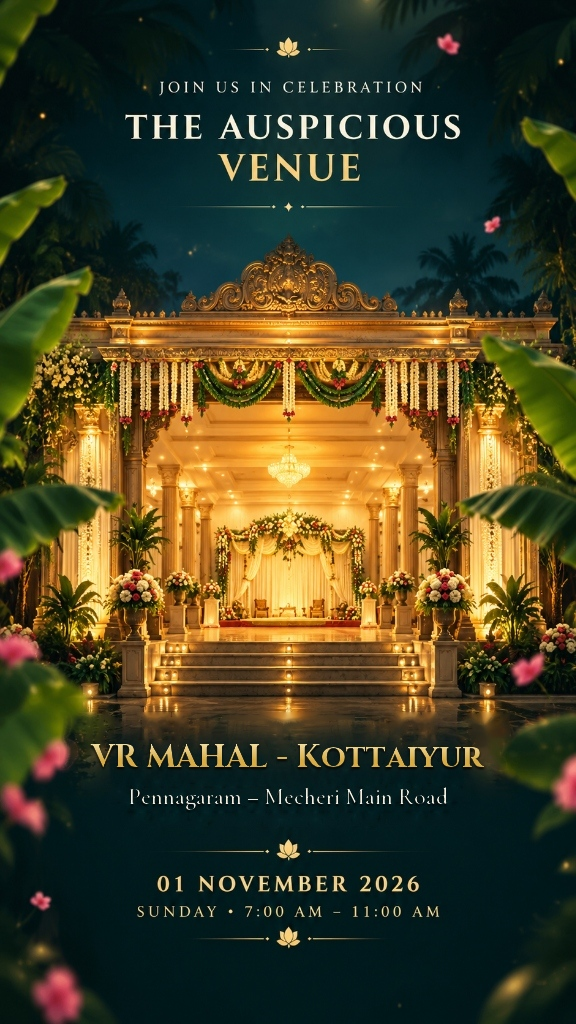
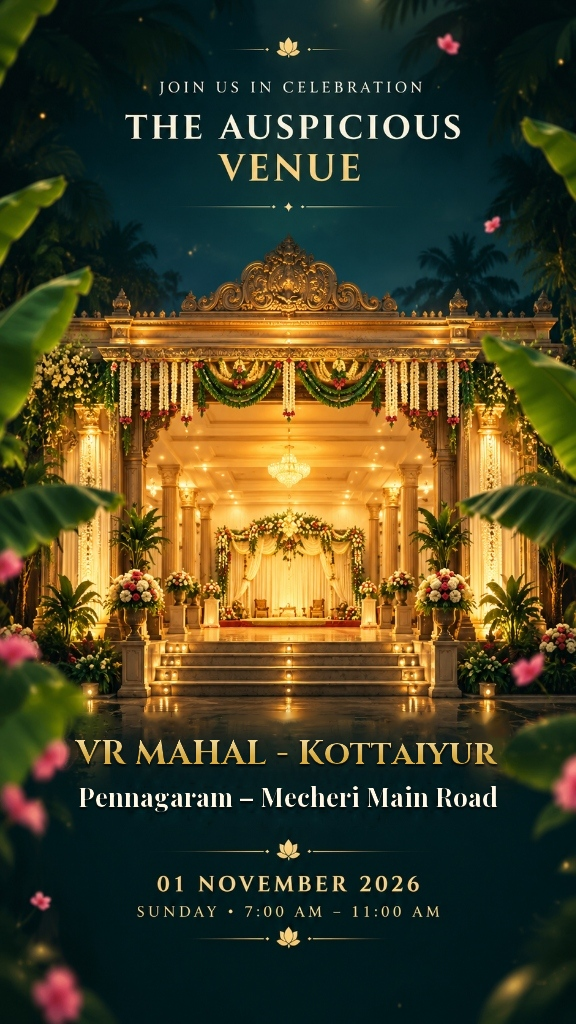
style(venue): increase card size and enlarge Pennagaram address line for high visibility

Changed region(s): [[0.125, 0.7188, 0.875, 0.8125]]

diff --git a/src/App.css b/src/App.css
@@ -3206,7 +3206,7 @@
   }
 
   .venue-poster-card {
-    max-height: clamp(440px, 62vh, 580px);
+    max-height: clamp(480px, 66vh, 620px);
     width: auto;
     max-width: none;
     aspect-ratio: 576 / 1024;
@@ -3215,7 +3215,7 @@
   .venue-poster-image {
     height: 100%;
     width: auto;
-    max-height: clamp(440px, 62vh, 580px);
+    max-height: clamp(480px, 66vh, 620px);
     object-fit: contain;
   }
 }
@@ -3230,15 +3230,15 @@
   }
 
   .venue-poster-card {
-    max-width: min(80vw, 305px);
+    max-width: min(88vw, 350px);
   }
 
   .venue-cinematic-actions {
     flex-direction: column;
     width: 100%;
-    max-width: 260px;
-    gap: 7px;
-    margin-top: 4px;
+    max-width: min(88vw, 300px);
+    gap: 8px;
+    margin-top: 6px;
   }
 
   .venue-btn-cinematic {
